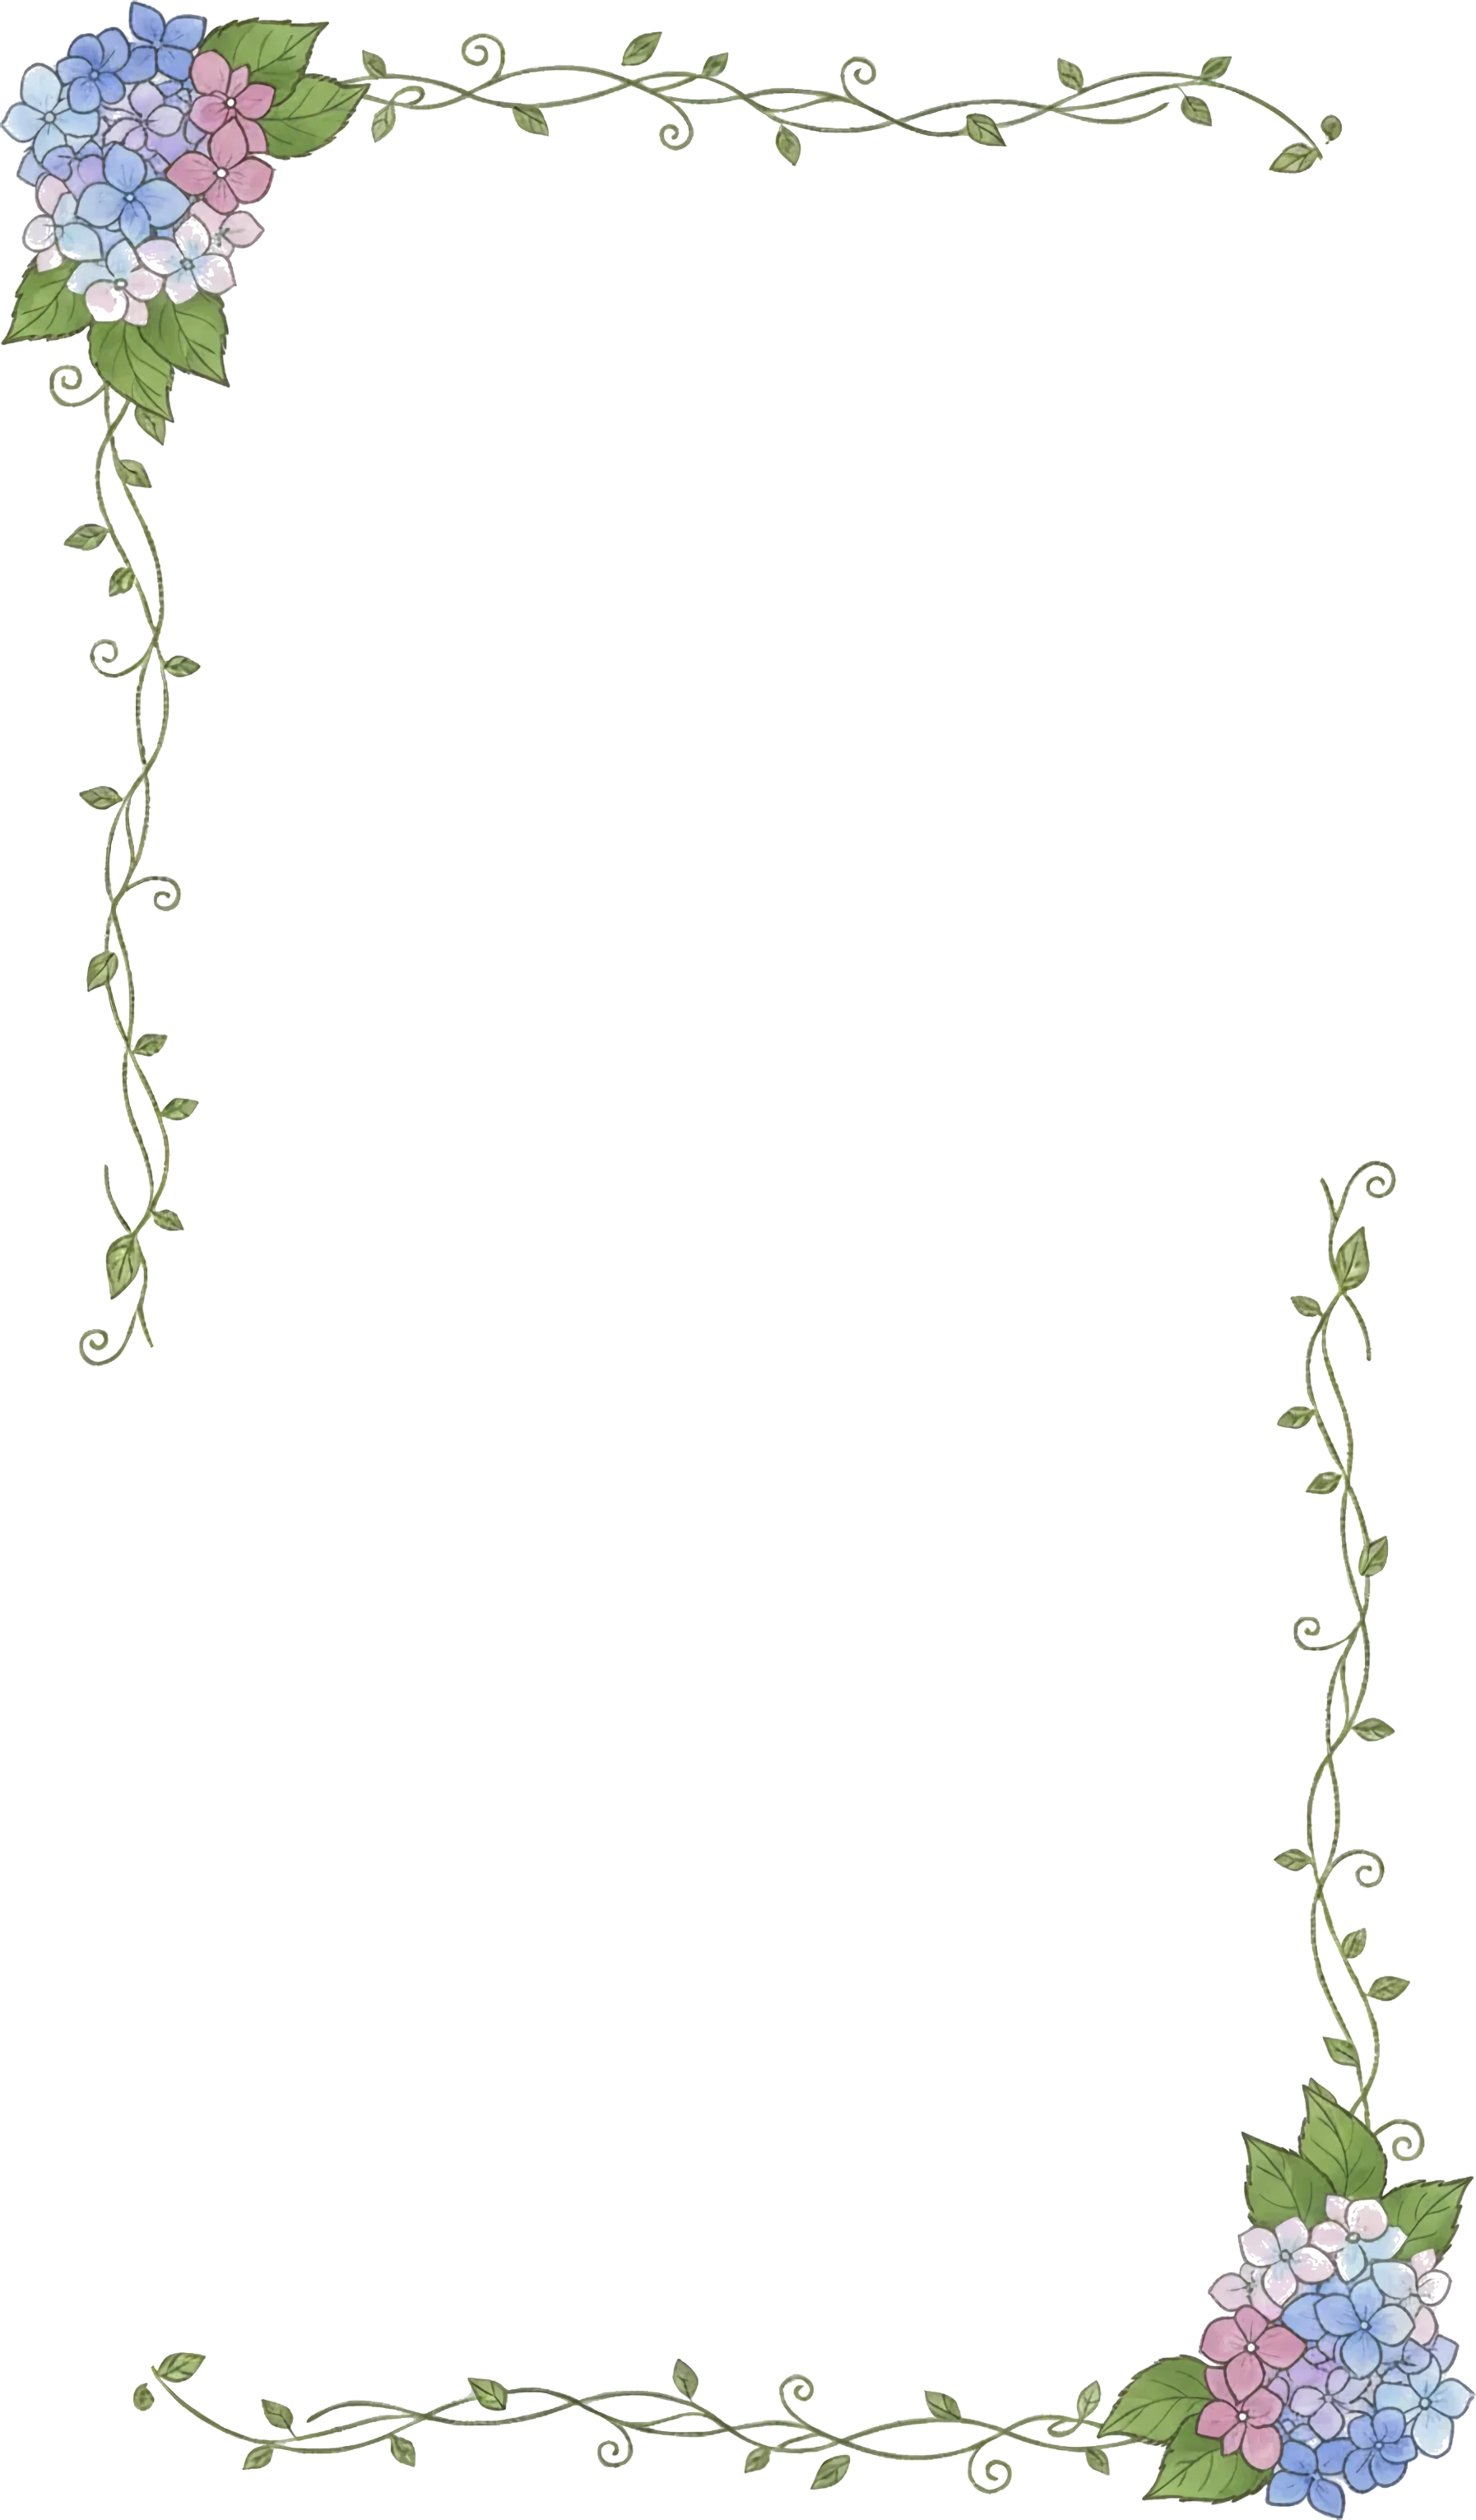
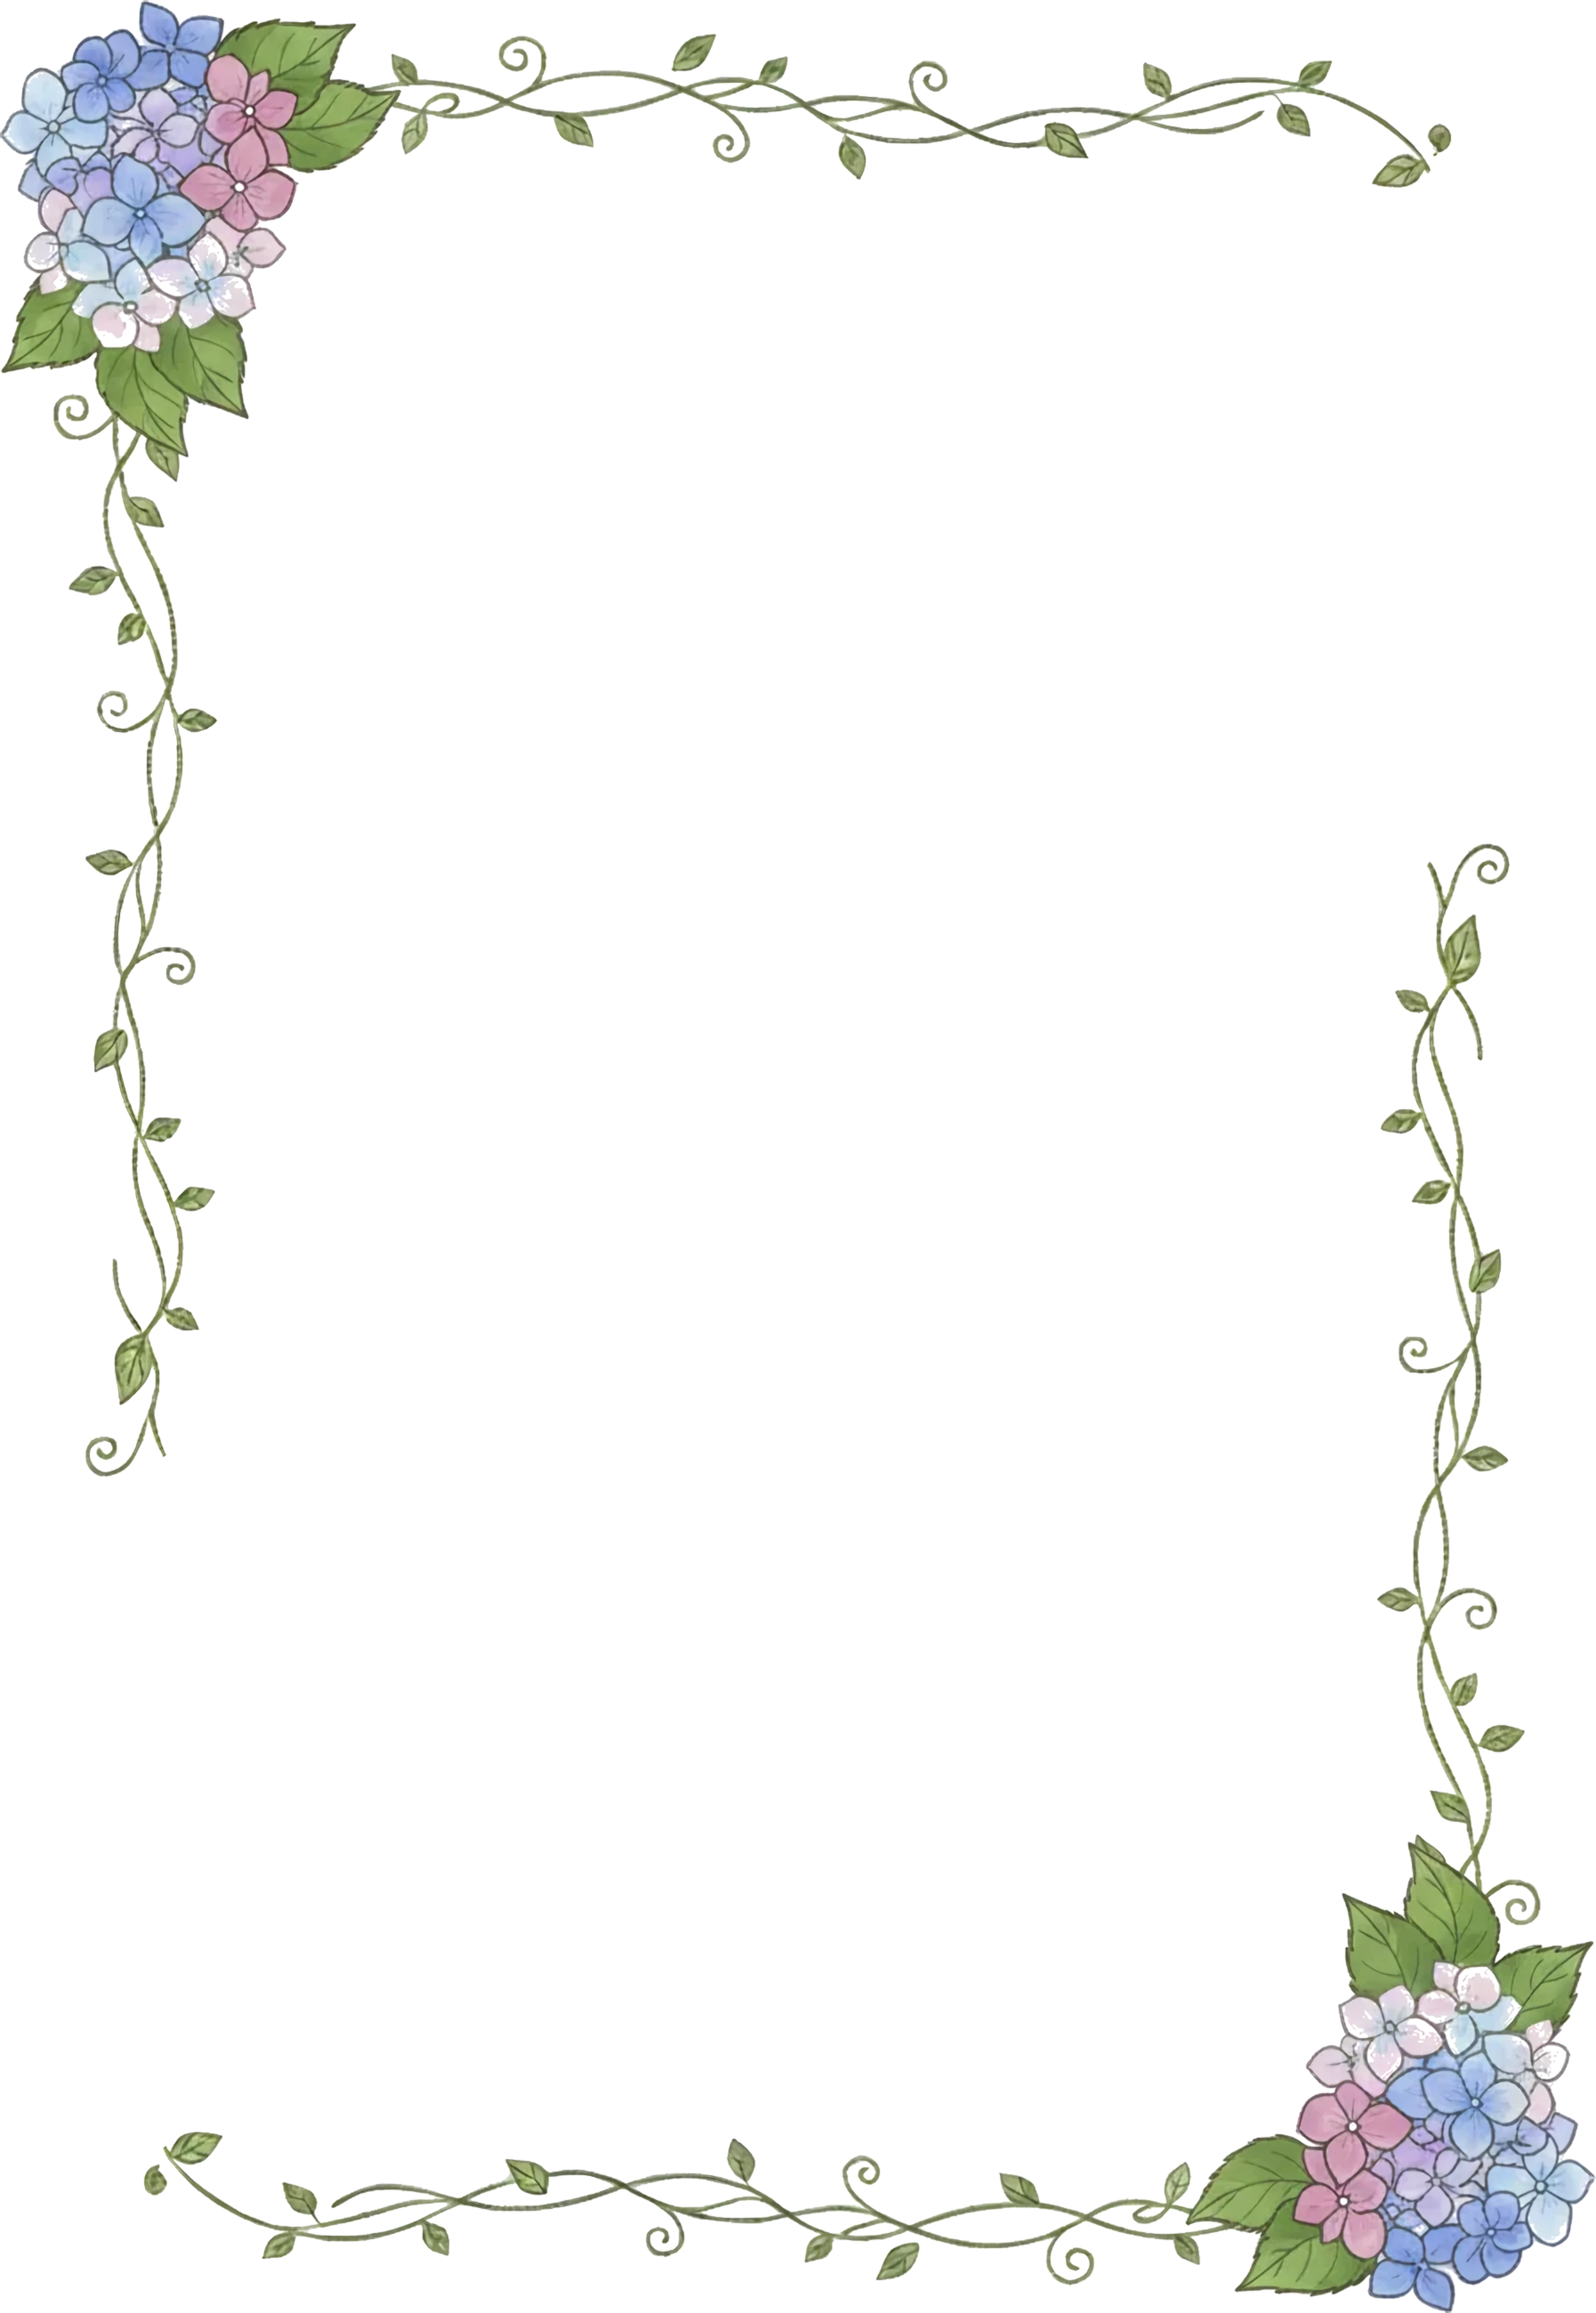
fix: 単章ビルド時のURL脚注生成とPDF脚注番号を改善
本文:

transform_links_to_footnotes の gsub パターンを修正し、通常の [text](url) を確実に脚注化
FootnoteConverter の脚注挿入順序を DOM 順に合わせ、本文中の参照番号と PDF 脚注番号が一致するように変更
aside.page-footnote::before を counter(footnote) ではなく data-footnote-number から表示するように変更
vs build 46 で entries.js が
46-first-css.html
 を指すよう、数値トークンから 46-*.html を解決するロジックを追加 *

Changed region(s): [[0.0938, 0.3737, 1.0, 1.0], [0.0, 0.0, 0.9062, 0.654]]

diff --git a/stylesheets/page-settings.css b/stylesheets/page-settings.css
@@ -88,11 +88,11 @@
   --letter-spacing:   0em;     /* 字間調整 */
 
   /* 版面の余白（見開き対応） */
-  --page-margin-top:    28mm;  /* 天（上余白） */
-  --page-margin-bottom: 28mm;  /* 地（下余白） */
-  --page-margin-inner:  58mm;  /* ノド（綴じ側、左右ページで自動的に位置が変わる） */
+  --page-margin-top:    27mm;  /* 天（上余白） */
+  --page-margin-bottom: 27mm;  /* 地（下余白） */
+  --page-margin-inner:  27mm;  /* ノド（綴じ側、左右ページで自動的に位置が変わる） */
   --page-margin-outer:  22mm;  /* 小口（外側、左右ページで自動的に位置が変わる） */
-  --frontispiece-binding-offset: 18.00mm; /* ノド/小口差分による背景オフセット */
+  --frontispiece-binding-offset: 2.50mm; /* ノド/小口差分による背景オフセット */
 
   --column-font-size:   8pt;  /* コラムのフォントサイズ */
 

diff --git a/stylesheets/layout-utils.css b/stylesheets/layout-utils.css
@@ -271,7 +271,9 @@ figure.float-start {
 .sideimage-right,
 .sideimage-left {
   display: grid;
-  grid-template-columns: minmax(0, 3fr) minmax(0, 2fr);
+  grid-template-columns:
+    minmax(0, var(--sideimage-text-fr, 3fr))
+    minmax(0, var(--sideimage-img-fr,  2fr));
   grid-template-rows: auto;
   gap: 1rem;
   align-items: start;

diff --git a/stylesheets/components.css b/stylesheets/components.css
@@ -143,7 +143,7 @@
     line-height: 1.4;
   }
   aside.page-footnote::before {
-    content: counter(footnote) ". ";
+    content: attr(data-footnote-number) ". ";
     font-weight: 700;
   }
 }

diff --git a/lib/vivlio/starter/cli/post_process.rb b/lib/vivlio/starter/cli/post_process.rb
@@ -306,6 +306,31 @@ module Vivlio
             figure = container.at_css('> figure')
             next unless figure
 
+            # 画像幅指定（width=50% など）から列比率を推定し、CSS変数として埋め込む
+            if (fraction = extract_sideimage_width_fraction(figure))
+              text_fr = (1.0 - fraction).round(3)
+              img_fr  = fraction.round(3)
+
+              existing_style = container['style'].to_s
+              # 既存の sideimage 用変数定義を一度取り除く
+              cleaned_style = existing_style
+                               .gsub(/--sideimage-text-fr:[^;]+;?/, '')
+                               .gsub(/--sideimage-img-fr:[^;]+;?/, '')
+                               .strip
+
+              var_style = "--sideimage-text-fr: #{text_fr}fr; --sideimage-img-fr: #{img_fr}fr"
+
+              container['style'] = if cleaned_style.empty?
+                                     var_style
+                                   else
+                                     "#{cleaned_style.chomp(';')}; #{var_style}"
+                                   end
+
+              normalize_sideimage_figure_width!(figure)
+
+              changed = true
+            end
+
             children = container.children
 
             body_nodes = children.reject do |node|
@@ -368,6 +393,59 @@ module Vivlio
           Common.log_success("#{html_file}: sideimage コンテナを正規化しました")
         end
         module_function :wrap_sideimage_blocks!
+
+        # sideimage コンテナ内の figure/img から width 指定（%）を取り出し、
+        # 0.0〜1.0 の範囲の比率として返す
+        def extract_sideimage_width_fraction(figure)
+          # figure 要素・子 img 要素の両方を対象とする
+          img = figure.at_css('img')
+
+          width_attr = figure['width'].to_s
+          width_attr = img['width'].to_s if width_attr.empty? && img
+
+          if (m = width_attr.match(/([0-9]+(?:\.[0-9]+)?)\s*%/))
+            return sanitize_sideimage_fraction(m[1].to_f / 100.0)
+          end
+
+          style_sources = []
+          style_sources << figure['style'].to_s
+          style_sources << img['style'].to_s if img
+
+          style_sources.compact.each do |style|
+            if (m = style.match(/width\s*:\s*([0-9]+(?:\.[0-9]+)?)\s*%/))
+              return sanitize_sideimage_fraction(m[1].to_f / 100.0)
+            end
+          end
+
+          nil
+        end
+
+        # パーセンテージから得た比率を安全な範囲に丸める
+        def sanitize_sideimage_fraction(raw)
+          return nil unless raw.positive?
+
+          # 極端な比率を避けるため、5%〜95% にクランプ
+          [[raw, 0.05].max, 0.95].min
+        end
+
+        # 列幅でレイアウトを制御するため、figure/img 側の width 指定は取り除く
+        def normalize_sideimage_figure_width!(figure)
+          img = figure.at_css('img')
+
+          [figure, img].compact.each do |node|
+            node.remove_attribute('width')
+
+            style = node['style'].to_s
+            next if style.empty?
+
+            cleaned = style.gsub(/width\s*:\s*[^;]+;?/, '').strip
+            if cleaned.empty?
+              node.remove_attribute('style')
+            else
+              node['style'] = cleaned
+            end
+          end
+        end
 
         # ================================================================
         # 置換ルールの読み込み

diff --git a/lib/vivlio/starter/cli/post_process/footnote_converter.rb b/lib/vivlio/starter/cli/post_process/footnote_converter.rb
@@ -63,11 +63,13 @@ module Vivlio
           # @param doc [Nokogiri::HTML::Document] Nokogiriドキュメント
           # @param definitions [Hash<String, String>] 脚注定義
           def insert_footnotes_for_references!(doc, definitions)
-            definitions.keys.each do |fid|
-              body = definitions[fid]
-              anchor = doc.at_css(%(a[href="##{fid}"]))
-              next unless anchor
+            # DOM順序で脚注参照を処理するため、本文中の全参照アンカーを取得
+            doc.css('a.footnote-ref[href^="#fn"]').each do |anchor|
+              fid = anchor['href']&.delete_prefix('#')
+              next unless fid
+              next unless definitions.key?(fid)
 
+              body = definitions[fid]
               insert_footnote_for_anchor!(doc, anchor, fid, body)
               definitions.delete(fid)
             end
@@ -109,12 +111,29 @@ module Vivlio
             aside = build_print_footnote_node(doc, fid, body)
             para = anchor.ancestors('p').first
             if para
-              para.add_next_sibling("\n")
-              para.add_next_sibling(aside)
+              insertion_point = find_last_print_footnote_sibling(para)
+              insertion_point.add_next_sibling(aside)
+              aside.add_next_sibling("\n")
             else
-              anchor.add_next_sibling("\n")
               anchor.add_next_sibling(aside)
+              aside.add_next_sibling("\n")
             end
+          end
+
+          def find_last_print_footnote_sibling(node)
+            current = node
+            while (sibling = current.next_sibling)
+              break unless print_footnote_related_node?(sibling)
+              current = sibling
+            end
+            current
+          end
+
+          def print_footnote_related_node?(node)
+            return false unless node
+
+            (node.text? && node.text.strip.empty?) ||
+              (node.element? && node['class'].to_s.split.any? { |c| c == 'page-footnote' })
           end
 
           # 段落外参照の場合、アンカーの直後に印刷用脚注を配置する
@@ -202,6 +221,9 @@ module Vivlio
             aside['role'] = 'doc-footnote'
             aside['class'] = 'page-footnote page-footnote-print'
             aside['id'] = fid
+            # IDから脚注番号を抽出（例: fn5 -> 5, fnurl1 -> url1）
+            footnote_number = fid.sub(/^fn/, '')
+            aside['data-footnote-number'] = footnote_number
             aside.inner_html = body
             aside
           end

diff --git a/lib/vivlio/starter/cli/entries.rb b/lib/vivlio/starter/cli/entries.rb
@@ -54,10 +54,20 @@ module Vivlio
 
               # 処理対象のHTMLファイル一覧を取得
               html_files = if files.any?
-                             # 引数で指定されたファイル群のみを対象（拡張子未指定なら .html を補完）
-                             files.map do |f|
-                               name = File.extname(f).empty? ? "#{f}.html" : f
-                               File.dirname(name) == '.' ? File.join(base_dir, name) : name
+                             # 引数で指定されたファイル群のみを対象
+                             files.flat_map do |f|
+                               # 拡張子が.htmlで終わる場合はそのまま使用
+                               if File.extname(f) == '.html'
+                                 name = File.dirname(f) == '.' ? File.join(base_dir, f) : f
+                                 File.exist?(name) ? [name] : []
+                               else
+                                 # トークン（例: 46）に対してマッチする HTMLファイルを検索
+                                 # パターン: #{token}.html または #{token}-*.html
+                                 pattern1 = File.join(base_dir, "#{f}.html")
+                                 pattern2 = File.join(base_dir, "#{f}-*.html")
+                                 candidates = Dir.glob([pattern1, pattern2])
+                                 candidates.empty? ? [] : candidates
+                               end
                              end
                            else
                              # カレントディレクトリの .html 全てを対象

diff --git a/lib/vivlio/starter/cli/pre_process/markdown_transformer.rb b/lib/vivlio/starter/cli/pre_process/markdown_transformer.rb
@@ -161,7 +161,7 @@ module Vivlio
             replacements = []
 
             # リンク本体を置換（コードスパンは既に退避済み）
-            replaced = text.gsub(/(?<!!)[\[](.+?)[\)]\((https?:[^\s)]+)\)(?!\[\^url\d+\])/) do |_match|
+            replaced = text.gsub(/(?<!!)\[(.+?)\]\((https?:[^\s)]+)\)(?!\s*\[^url\d+\])/) do |_match|
               label = ::Regexp.last_match(1)
               url   = ::Regexp.last_match(2)
               id = (url_id[url] ||= begin

diff --git a/lib/vivlio/starter/cli/build.rb b/lib/vivlio/starter/cli/build.rb
@@ -444,6 +444,7 @@ module Vivlio
                   timing_rows = []
 
                   expanded_tokens.each do |target|
+                    Common.log_info("[DEBUG] Building chapter: #{target}")
                     runner = SingleChapterRunner.new(self, target)
                     chapter_pdfs = runner.run
                     generated_pdfs.concat(chapter_pdfs)

diff --git a/contents/02-preface.md b/contents/02-preface.md
@@ -81,6 +81,14 @@
 
 また、カウプラン機関極東支部さまが公開されている「Re:VIEW Starter」（https://kauplan.org/reviewstarter/）から多大な示唆と影響を受けました。ここに記して謝意を表します。
 
+//sideimage[hayase_hiromu][25mm][sep=5mm,side=R]{
+また、表紙絵の女の子は、千葉県松戸市在住のフリーランスSDイラストレーター @<href>{https://hiromu-hayase.tumblr.com,早瀬ひろむ}さんの作品です。素敵なイラストを描いてくださり、ありがとうございます。
+//}
+//flushright{
+@<B>{早瀬ひろむ} さん　
+//}
+
+
 ## 著者紹介
 
 卓越した技能を有する者として認められる国家資格「応用情報技術者」を保持。平成30年より「[アトリヱ未來](https://atelier-mirai.net/)」を創業。HTML講座やRuby講座などプログラミングの個人指導や、ITパスポート講座等の資格講座の開催、ウェブサイト作成等を受注している。

diff --git a/CHANGELOG.md b/CHANGELOG.md
@@ -106,11 +106,14 @@
 
 ### Changed
 
+- **sideimage レイアウトの可変幅対応**: `:::{.sideimage-right}` / `:::{.sideimage-left}` コンテナ内の画像に `{width=50%}` などのパーセンテージ指定を与えると、その値をページ幅に対する画像の希望比率として解釈し、CSS カスタムプロパティ（`--sideimage-text-fr` / `--sideimage-img-fr`）を通じて本文と画像の列幅比を動的に切り替えるようにした（既定値は従来どおり 3:2 のまま）。
+
 ### Fixed
 - Markdown の画像記法で `{align="center"}` や `{width="30%"}` のように引用符付きで指定した属性も正しくパースし、`<figure class="align-center">` および `style="width: .."` として出力されるように修正。
 - 章ページの右上柱で章番号と章タイトルを表示できるように、`chapter-common.css` で `h1 .chapter-number` / `.chapter-title` から named string (`chapter-number` / `chapter-title`) を `string-set` し、`page-settings.css` の `@top-right` で `string(...)` を参照するよう整備。
 - 扉絵背景の横位置を `margin_inner`/`margin_outer` の差分から自動算出した `--frontispiece-binding-offset` を使って補正し、`image-header.css` / `simple-header.css` いずれでもノド側に画像が飲み込まれないようにした。
 - 扉絵ポートレート variant の生成時に、ページ設定の `margin_inner` と `margin_outer` からバインディングセーフなアスペクト比を算出して利用するようにし、ノド側の欠けを防止。
+- **リンク脚注と PDF 脚注番号の整合性**: Markdown 内の外部リンクを自動的に URL 脚注へ変換する処理を見直し、章末脚注からページ脚注への展開時にも本文中の参照順と脚注番号が一致するように修正。Vivliostyle の print 脚注と CSS カウンターのずれにより `color 5` などの参照番号と脚注行が食い違っていた問題を解消。
 
 ## [0.16.0] - 2025-11-15
 